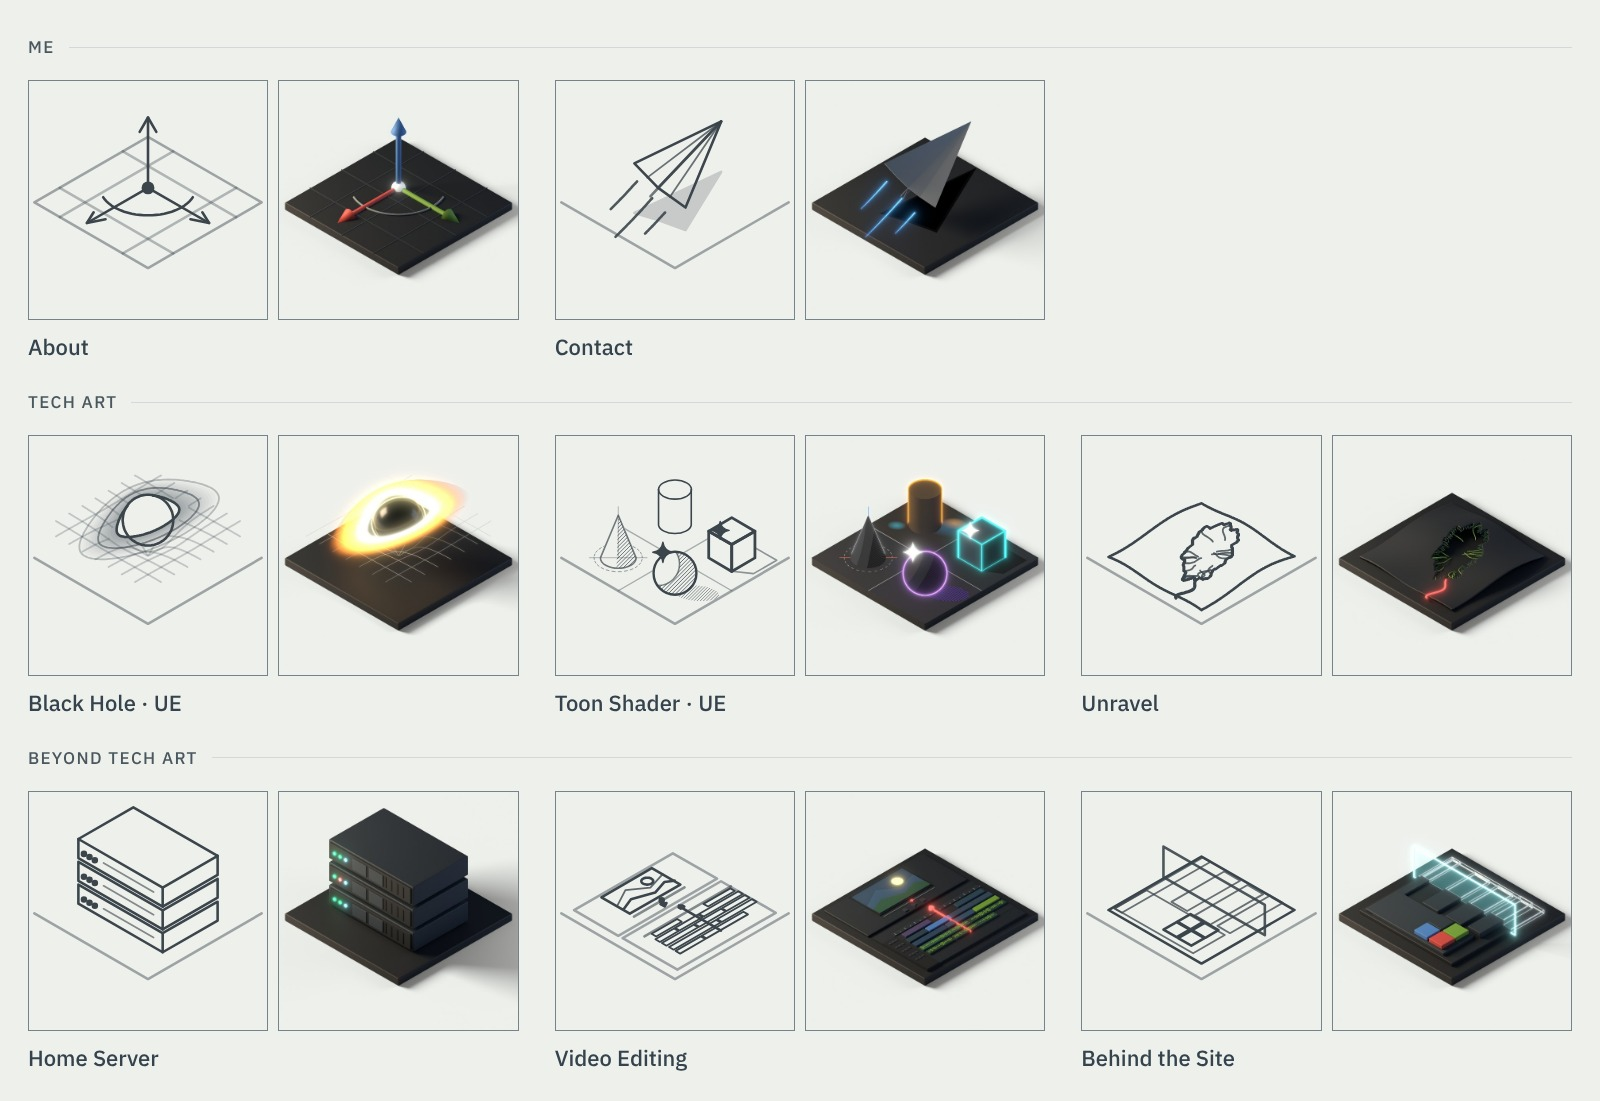
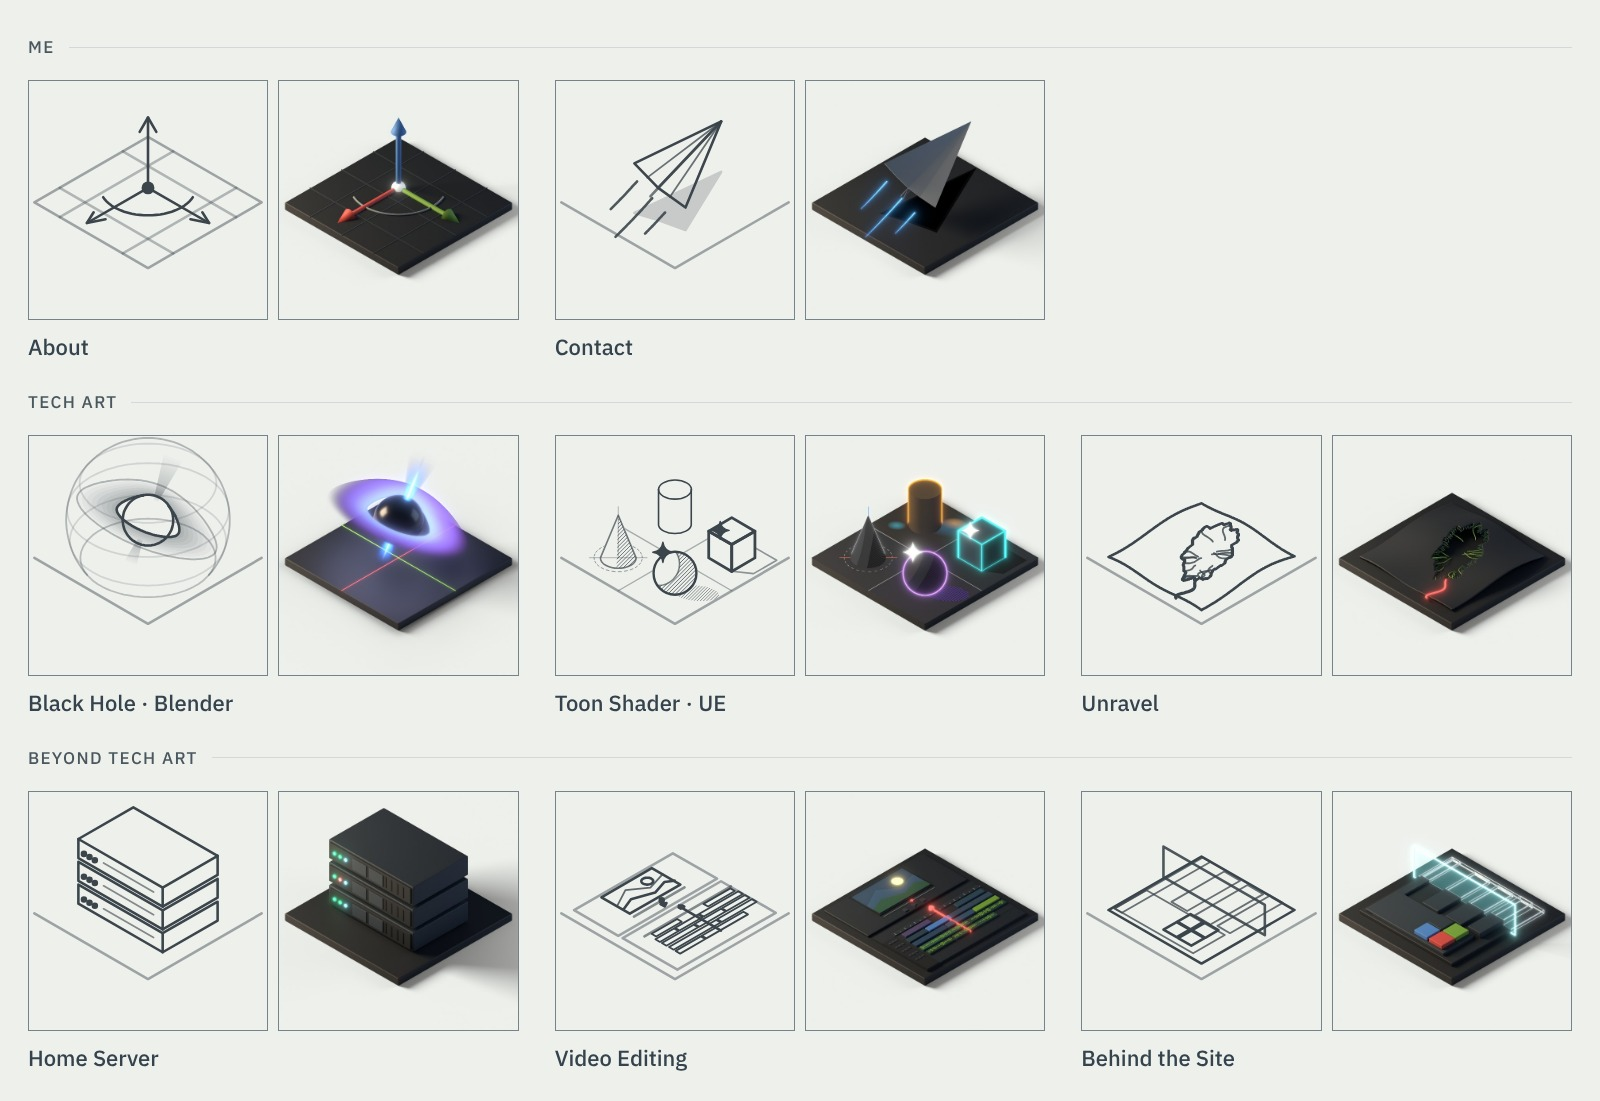
Some minor changes to the behind the site page

Changed region(s): [[0.1875, 0.4015, 0.3125, 0.5867], [0.0312, 0.4015, 0.1562, 0.525], [0.0938, 0.6176, 0.1562, 0.6485]]

diff --git a/behind-the-site.html b/behind-the-site.html
@@ -58,7 +58,7 @@
     </div>
 
     <figure>
-      <img src="images/behind-the-site/tiles-grid-dark.jpg" data-themed width="1600" height="1101" alt="A selection of tiles, each twice, its line art beside its 3D render. Me: About and Contact. Tech art: Black Hole · UE, Toon Shader · UE and Unravel. Beyond tech art: Home Server, Video Editing and Behind the Site.">
+      <img src="images/behind-the-site/tiles-grid-dark.jpg" data-themed width="1600" height="1101" alt="A selection of tiles, each twice, its line art beside its 3D render. Me: About and Contact. Tech art: Black Hole · Blender, Toon Shader · UE and Unravel. Beyond tech art: Home Server, Video Editing and Behind the Site.">
       <figcaption>A few tiles from each group, as line art and as the render you see on hover.</figcaption>
     </figure>
 
@@ -78,8 +78,11 @@
         <p>The switch in the header swaps one set of colours for another. The light theme uses a soft off-white rather than stark white, and a deeper teal, because the dark theme's teal is too pale to read on a light page.</p>
         <p>The site opens in whatever the device is set to, remembers a choice on every page after it, and sets the theme before anything is drawn, so a page never flashes the wrong colours.</p>
       </div>
-      <figure>
-        <img src="images/behind-the-site/themes.jpg" width="1600" height="955" alt="The Black Hole Shader page split diagonally: the left part in the dark theme, slate with off-white text, and the right part in the light theme, off-white with deep slate text.">
+      <figure class="compare-slider" style="--pos: 50%">
+        <img src="images/behind-the-site/themes-dark.jpg" width="1600" height="956" alt="The Black Hole Shader page in the dark theme: slate background with off-white text.">
+        <img class="slider-top" src="images/behind-the-site/themes-light.jpg" width="1600" height="956" alt="The same page in the light theme: off-white background with deep slate text.">
+        <span class="slider-handle" aria-hidden="true"></span>
+        <input type="range" min="0" max="100" value="50" step="0.5" aria-label="Move the divider between the dark and light theme">
       </figure>
     </div>
 
@@ -169,7 +172,7 @@
     <h2>Projects from one list</h2>
     <p class="pull">Every project is one entry in one list, and everything that shows a project is built from it.</p>
 
-    <p class="sub-text">Adding a project is one edit. The entry below is all it takes for the Toon Shader to get its tile in the rail, its place in the phone menu and its row in the work list on the About page, once its status is set to live.</p>
+    <p class="sub-text">Adding a project is one edit. The entry below is all it takes for the Toon Shader to get its tile in the rail, its place in the phone menu and its row in the work list on the About page.</p>
     <div class="code-result">
       <pre class="formula" aria-label="The Stylized Toon Shader entry in the project list">{
   id:     "stylized-toon-shader",   <span class="c">the page, and the tile's files</span>
@@ -180,7 +183,7 @@
   scale:  3,                        <span class="c">used for sorting</span>
   year:   2026,
   pin:    3,
-  status: "live",                  <span class="c">live, draft or planned</span>
+  status: "live",                   <span class="c">live, draft or planned</span>
 }</pre>
       <div class="result">
         <figure class="result-tile">
@@ -295,19 +298,33 @@
         <p>The line art isn't edge detection on the image. Each tile lists what to draw by object name, and those real 3D points are projected through the render camera into a clean SVG. Laid over the render, it lands exactly on the shapes.</p>
         <p>It's saved on every F12, so it always matches the scene as it is, and moving something can never leave the two out of step.</p>
       </div>
-      <figure><img src="images/behind-the-site/lines-over-render.jpg" width="600" height="600" alt="The Toon Shader tile's render with its white line art drawn on top, every line sitting on the edge it traces." class="square"></figure>
+      <div>
+        <figure class="line-demo" tabindex="0" aria-label="The Toon Shader tile's line art. Hover or tap it to show the render underneath.">
+          <img class="demo-render" src="tiles/stylized-toon-shader-dark.jpg" data-themed alt="The Toon Shader tile's render.">
+          <img class="demo-line tile-line" src="tiles/stylized-toon-shader-dark.svg" data-themed alt="">
+        </figure>
+        <p class="line-demo-caption">Hover the drawing to see the render under it.</p>
+      </div>
     </div>
 
     <div class="feature flip">
       <div class="feature-text">
         <h3>From sketch to tile</h3>
-        <p>New tiles start as quick flat sketches in the browser, where layouts and colours are cheap to try. The one I pick becomes the build script, and the render is checked against the sketch.</p>
+        <p>New tiles start as quick flat sketches in the browser, where layouts and colours are cheap to try. The Toon tile went through more than thirty before one stuck. The one I pick becomes the build script, and the render is checked against the sketch.</p>
       </div>
       <div class="compare cols">
         <figure><span class="result-label">Sketch</span><img src="images/behind-the-site/toon-sketch.jpg" width="600" height="600" alt="A flat sketch of the Toon Shader tile: four shapes on a plate split into quarters, with purple outlines."></figure>
         <figure><span class="result-label">Render</span><img src="images/behind-the-site/toon-final.jpg" width="600" height="600" alt="The final Toon Shader tile: the same layout, rendered, with orange, purple and cyan glowing outlines."></figure>
       </div>
     </div>
+
+    <div class="compare four">
+      <figure><span class="result-label">Split sphere</span><img src="images/behind-the-site/sketch-split.jpg" width="600" height="600" alt="A sketch of a sphere split down the middle, realistic on one side and toon on the other." loading="lazy"></figure>
+      <figure><span class="result-label">Passes pulled apart</span><img src="images/behind-the-site/sketch-layers.jpg" width="600" height="600" alt="A sketch of the shader's stages as stacked transparent layers above a sphere." loading="lazy"></figure>
+      <figure><span class="result-label">One sphere</span><img src="images/behind-the-site/sketch-one.jpg" width="600" height="600" alt="A sketch of a single toon sphere with a sparkle on its highlight." loading="lazy"></figure>
+      <figure><span class="result-label">A sphere per look</span><img src="images/behind-the-site/sketch-four.jpg" width="600" height="600" alt="A sketch of four spheres in a cluster, each shaded in a different preset." loading="lazy"></figure>
+    </div>
+    <p class="caption">Sketches tried for the Toon tile before the four-quarter layout.</p>
 
     <div class="notes">
       <div>

diff --git a/js/site.js b/js/site.js
@@ -193,6 +193,13 @@
     });
   }
 
+  // A filled shape with an outline, like a sparkle or a dot: its outline traces in with the other lines,
+  // and its fill only appears once the whole tile has drawn.
+  function hasFill(s) {
+    var f = s.getAttribute("fill"), st = s.getAttribute("stroke");
+    return f && f !== "none" && st !== "none";
+  }
+
   // Set every line to "not drawn yet", then let the CSS transition draw it.
   function draw(svg, duration, startDelay) {
     startDelay = startDelay || 0;
@@ -205,8 +212,13 @@
       s.style.strokeDashoffset = len + 4;
       s.getBoundingClientRect();                      // apply the starting state before animating
       var delay = startDelay + (i / shapes.length) * duration * 0.35;   // later lines start a little later
-      s.style.transition = "stroke-dashoffset " + duration * 0.65 + "ms ease-out " + delay + "ms";
+      var fill = hasFill(s);
+      if (fill) s.style.fillOpacity = 0;
+      s.getBoundingClientRect();
+      s.style.transition = "stroke-dashoffset " + duration * 0.65 + "ms ease-out " + delay + "ms" +
+        (fill ? ", fill-opacity 300ms ease-out " + (startDelay + duration) + "ms" : "");
       s.style.strokeDashoffset = 0;
+      if (fill) s.style.fillOpacity = 1;
     });
     if (svg.hasAttribute("data-bubble")) bubble(svg, { duration: duration, delay: startDelay });
   }
@@ -223,8 +235,11 @@
       s.style.strokeDashoffset = 0;
       s.getBoundingClientRect();
       var delay = ((n - 1 - i) / n) * duration * 0.35;
-      s.style.transition = "stroke-dashoffset " + duration * 0.65 + "ms ease-in " + delay + "ms";
+      var fill = hasFill(s);
+      s.style.transition = "stroke-dashoffset " + duration * 0.65 + "ms ease-in " + delay + "ms" +
+        (fill ? ", fill-opacity 150ms ease-in 0ms" : "");
       s.style.strokeDashoffset = len + 4;
+      if (fill) s.style.fillOpacity = 0;
     });
     if (svg.hasAttribute("data-bubble")) bubble(svg, { duration: duration, reverse: true });
   }
@@ -814,6 +829,52 @@
       frame.allowFullscreen = true;
       link.parentNode.replaceChild(frame, link);
     });
+  });
+
+  // A divider to drag between two images. The slider underneath does the work, so it also moves with the
+  // arrow keys and is read out by screen readers.
+  Array.prototype.forEach.call(document.querySelectorAll(".compare-slider"), function (fig) {
+    var input = fig.querySelector("input[type=range]");
+    if (!input) return;
+    function set() { fig.style.setProperty("--pos", input.value + "%"); }
+    input.addEventListener("input", set);
+    set();
+  });
+
+  // A tile's line art shown on a page. It draws in when it scrolls into view. Hovering it (or tapping it
+  // on a touch screen) fades the render in underneath while the lines draw again over it, to show that
+  // they land exactly on the shapes.
+  Array.prototype.forEach.call(document.querySelectorAll(".line-demo"), function (fig) {
+    var img = fig.querySelector("img.demo-line");
+    if (!img) return;
+    var still = reduceMotion || location.protocol === "file:";
+    function on() {
+      fig.classList.add("is-on");
+      var svg = fig.querySelector("svg");
+      if (svg && !still) draw(svg, REDRAW_TIME);
+    }
+    function off() { fig.classList.remove("is-on"); }
+    fig.addEventListener("mouseenter", on);
+    fig.addEventListener("mouseleave", off);
+    fig.addEventListener("focus", on);
+    fig.addEventListener("blur", off);
+    if (window.matchMedia && window.matchMedia("(hover: none)").matches) {
+      fig.addEventListener("click", function () { if (fig.classList.contains("is-on")) off(); else on(); });
+    }
+    if (still) return;
+    img.style.visibility = "hidden";
+    inlineSvg(img).then(function (svg) {
+      if (!svg) return;
+      svg.style.visibility = "hidden";
+      if (!("IntersectionObserver" in window)) { svg.style.visibility = ""; return; }
+      var seen = new IntersectionObserver(function (entries) {
+        if (!entries[0].isIntersecting) return;
+        seen.disconnect();
+        svg.style.visibility = "";
+        draw(svg, DRAW_TIME);
+      }, { threshold: 0.5 });
+      seen.observe(fig);
+    }).catch(function () { img.style.visibility = ""; });
   });
 
   // Screen recordings on a page play silently on a loop. With reduced motion asked for, they stay on their still frame.

diff --git a/css/site.css b/css/site.css
@@ -809,6 +809,30 @@ h3.sub { margin-top: 44px; }
   .side-shot .panel-shot img, .side-shot .panel-shot.wide img { max-width: 100%; }
 }
 
+/* A tile's line art on a page: the lines at rest, the render fading in under them on hover. */
+.line-demo { position: relative; aspect-ratio: 1; width: 100%; max-width: 400px; margin: 0 auto; border: 1px solid var(--hair); cursor: pointer; outline-offset: 3px; }
+.line-demo img.demo-render { position: absolute; inset: 0; width: 100%; height: 100%; opacity: 0; transition: opacity 0.3s ease; }
+.line-demo .tile-line { opacity: 1; }
+.line-demo.is-on img.demo-render { opacity: 1; }
+:root[data-theme="light"] .line-demo svg.tile-line { transition: stroke 0.3s ease; }
+:root[data-theme="light"] .line-demo.is-on svg.tile-line { stroke: #fff; }
+:root[data-theme="light"] .line-demo.is-on svg.tile-line [fill]:not([fill="none"]) { fill: #fff; }
+.line-demo-caption { max-width: 400px; margin: 10px auto 0; font-size: 15px; color: var(--muted); }
+
+/* A row of four images, such as the sketches tried for a tile. */
+.compare.four { grid-template-columns: repeat(4, minmax(0, 1fr)); max-width: var(--column); margin: 0 0 10px; }
+.compare.four + .caption { margin-bottom: 40px; }
+@media (max-width: 760px) { .compare.four { grid-template-columns: repeat(2, minmax(0, 1fr)); } }
+
+/* Two images on top of each other with a divider you drag, such as the same page in both themes. */
+.compare-slider { position: relative; margin: 0; overflow: hidden; border: 1px solid var(--hair); touch-action: pan-y; user-select: none; }
+.compare-slider img { display: block; width: 100%; height: auto; pointer-events: none; }
+.compare-slider .slider-top { position: absolute; inset: 0; height: 100%; clip-path: inset(0 0 0 var(--pos)); }
+.slider-handle { position: absolute; top: 0; bottom: 0; left: var(--pos); width: 2px; margin-left: -1px; background: var(--accent); pointer-events: none; }
+.slider-handle::after { content: "‹ ›"; position: absolute; top: 50%; left: 50%; width: 38px; height: 38px; margin: -19px 0 0 -19px; display: flex; align-items: center; justify-content: center; border: 1px solid var(--accent); border-radius: 50%; background: var(--ground); color: var(--accent); font-size: 18px; line-height: 1; letter-spacing: 2px; }
+.compare-slider input { position: absolute; inset: 0; width: 100%; height: 100%; margin: 0; opacity: 0; cursor: ew-resize; }
+.compare-slider:has(input:focus-visible) .slider-handle::after { outline: 2px solid var(--accent); outline-offset: 3px; }
+
 /* Desktop at 90%, like the rest of the site. */
 @media (min-width: 761px) {
   .pull { font-size: 21px; }

diff --git a/stylized-toon-shader.html b/stylized-toon-shader.html
@@ -54,7 +54,7 @@
   <main>
     <div class="prose">
       <p class="lead">A toon shader for Unreal Engine 5 that turns a normal, realistic scene into an illustration without touching a single asset. Lighting falls into clean bands, shadows fill with pencil cross hatching that sticks to surfaces, and ink lines trace every silhouette, thinning as objects move away.</p>
-      <p>It's one post-process material. Textures, normal maps, roughness and metalness all stay intact, because only the light gets stylised, never the surface. It works with Lumen, Virtual Shadow Maps, Substrate and every light type, and it's on <a href="https://www.fab.com/listings/150bf056-1900-4ca0-8e75-e615ab354023" target="_blank" rel="noopener">Fab</a> with four look presets and an overview level.</p>
+      <p>It's one post-process material. Textures, normal maps, roughness and metalness all stay intact, because only the light gets stylised, never the surface. It works with Lumen, Virtual Shadow Maps, Substrate and every light type, and it's on <a href="https://www.fab.com/listings/d393f196-9cfd-4c1c-8cb1-beff66a41fc4" target="_blank" rel="noopener">Fab</a> with four look presets and an overview level.</p>
     </div>
 
     <figure>
